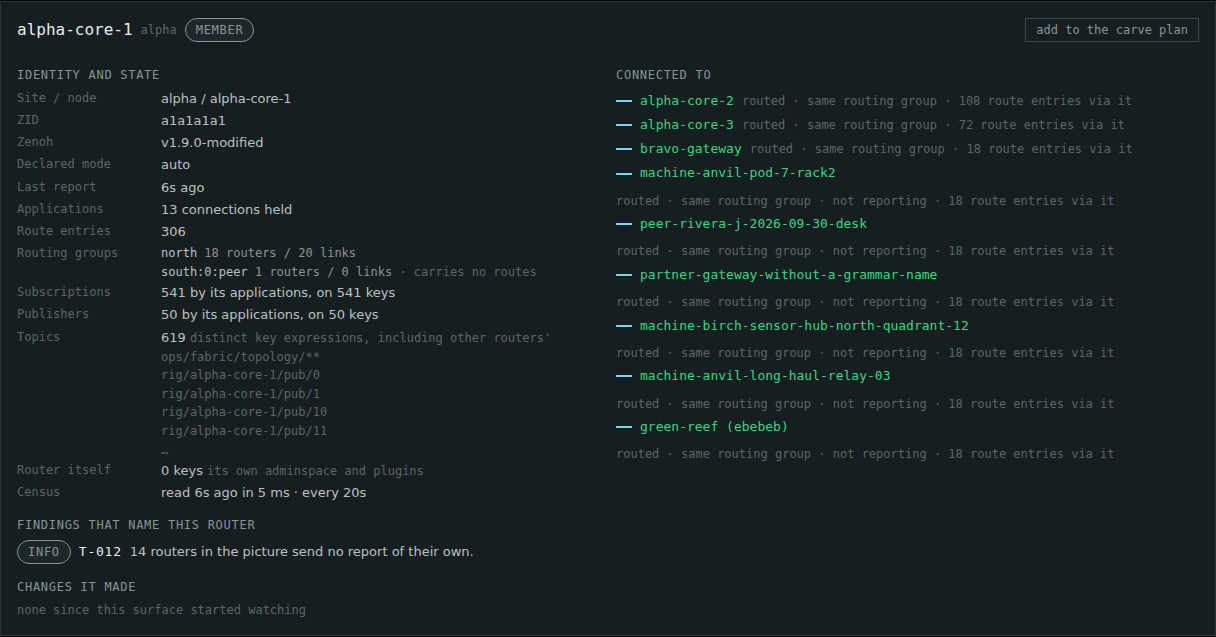
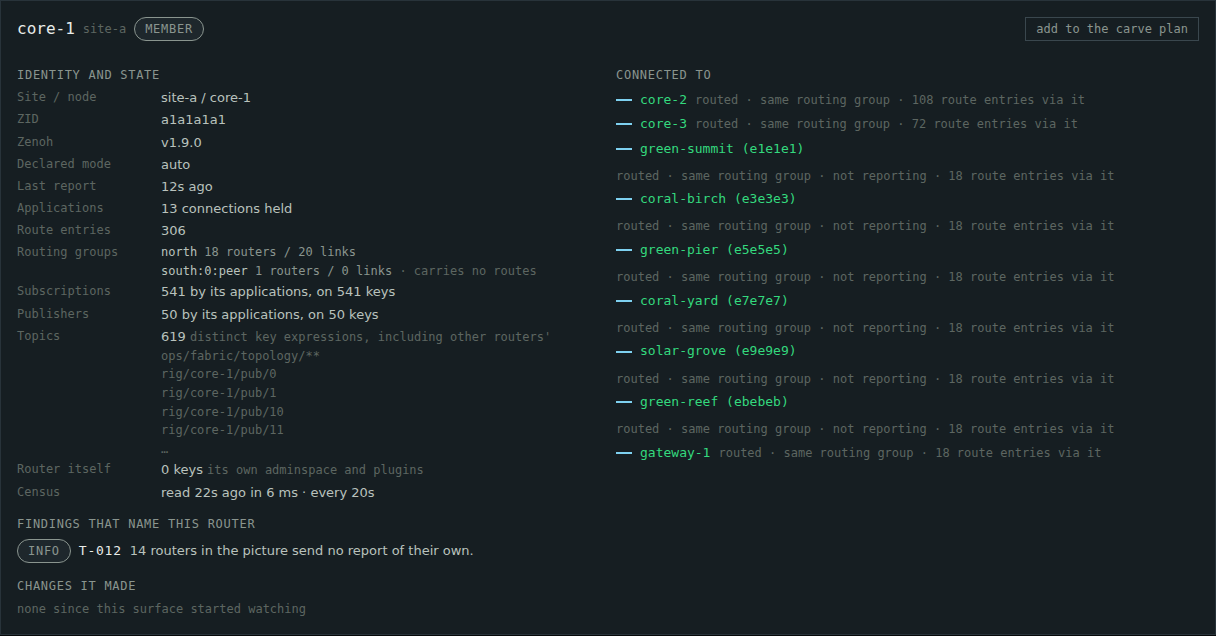
docs(topology): screenshots from a generic-name rig with no directory or roster
Every screenshot on the topology service page is now from a rig of 22 stock
eclipse/zenoh 1.9.0 routers named core-1..3, gateway-1/2, pod-1..4 and
edge-1..13 in sites site-a and site-b, run with no peer directory and no
roster. The graph, the reporting-router detail and finding T-013 are
replaced.

The pictures of a router's owner (the not-reporting detail) and of the
routers table, which shows an owner column, are removed until the page
hides owner fields when no directory is configured; the text says which
part of that is built and which is designed.

diff --git a/docs/design/zenoh-topology-service.md b/docs/design/zenoh-topology-service.md
@@ -2,7 +2,7 @@
 
 The topology service draws a Zenoh router fabric as a graph: every router, the routing group each link belongs to, which routers send no report of their own, who operates each router, and how many subscriptions, publishers and key expressions each one carries. Each router's own host reads that router and publishes what it finds; the page reads only those reports, so opening it sends no query to any router.
 
-**Status.** Built, in goatstuff `ops/goat-topology` (the graph, routers that send no report, names and owners, per-router counts, and the findings). Every image on this page is from a local test rig of 22 `zenohd` 1.9.0 routers with synthetic names, organizations, nations and ZIDs (measured 2026-11-16). The component's design document, which is canonical, is [`docs/design/zenoh-topology-surface.md`](https://github.com/usareur-af/goatstuff/blob/main/docs/design/zenoh-topology-surface.md) in goatstuff.
+**Status.** Built, in goatstuff `ops/goat-topology` (the graph, routers that send no report, names and owners, per-router counts, and the findings). Every image on this page is from a local test rig of 22 stock `eclipse/zenoh` 1.9.0 routers with generic names (`core-1`, `gateway-1`, `pod-1`, …) and synthetic ZIDs, run with no peer directory and no roster configured (measured 2026-11-16). The component's design document, which is canonical, is [`docs/design/zenoh-topology-surface.md`](https://github.com/usareur-af/goatstuff/blob/main/docs/design/zenoh-topology-surface.md) in goatstuff.
 
 <!-- Recording: the 90-second screen recording of the rig page (graph filling in, a router that sends no report, a router going quiet and T-006, the counts) goes on the line below once it is uploaded; see the pull request. -->
 
@@ -28,7 +28,7 @@ On the rig, with one router holding 541 subscriptions and 22 routers in its grou
 
 ### The routing graph
 
-![The topology graph of the rig: six reporting routers drawn as full circles with application counts, fourteen routers that send no report drawn as small dashed circles labeled with their mesh peer names and organizations, blue routed links and amber terminated links.](zenoh-topology-service/graph-dark.png)
+![The topology graph of the rig: six reporting routers (core-1 to core-3, gateway-1, pod-1, pod-2) drawn as full circles with application counts, fourteen routers that send no report drawn as small dashed circles labeled with names derived from their ZIDs, blue routed links and amber terminated links.](zenoh-topology-service/graph-dark.png)
 
 <details><summary>The same graph in the light theme</summary>
 
@@ -39,19 +39,11 @@ On the rig, with one router holding 541 subscriptions and 22 routers in its grou
 - **Reporting routers** are the full circles. The number inside is the count of sessions the router holds; the amber arc around it grows with that count and is full at 60.
 - **Routers that send no report** are the small dashed circles marked `?`. A router appears even when no publisher runs on its host, because the routers that do report list it in their link-state graphs. Its links are real. Its settings and load are unknown and are shown as blank, never as zero.
 - **Routed links** (blue) join two routers in the same routing group (`north`). **Terminated links** (amber) join a gateway to a router below it (`south:<id>:router`).
-- **Labels.** The first line is the router's name: its node name if it reports, otherwise the name of the mesh peer it connects from, otherwise a display name derived from its ZID (for example `coral-quarry (d2d2d2)`). A reporting router's second line is its site and role (`member` or `gateway`). The last line is the organization and that organization's nation, when the identity roster records them.
+- **Labels.** The first line is the router's name: its node name if it reports, otherwise the name of the mesh peer it connects from when a peer directory is configured, otherwise a display name derived from its ZID (for example `coral-quarry (d2d2d2)`). A reporting router's second line is its site and role (`member` or `gateway`). When a roster is configured, a last line gives the organization and that organization's nation.
 
 ### Who operates a router
 
-Selecting a router opens its detail.
-
-![The detail of a router that sends no report: its ZID, the display name derived from it, the mesh peer name, hostname and groups, the address it connects from, the organization and its nation, the individual, that person's nationality, how the owner was found, and the seven key expressions a reporting router attributes to it.](zenoh-topology-service/detail-not-reporting-dark.png)
-
-<details><summary>Light theme</summary>
-
-![The detail of a router that sends no report, light theme.](zenoh-topology-service/detail-not-reporting-light.png)
-
-</details>
+Selecting a router opens its detail. The owner fields described below come from two optional files on the surface's host, a peer directory and a roster. Built: without them, a router that sends no report keeps a name derived from its ZID. Designed, not built: with neither file configured, the page shows no owner column and no owner fields at all; today it still shows them empty.
 
 The surface finds the owner without asking the fabric or the mesh controller for anything:
 
@@ -65,13 +57,7 @@ A router stays unnamed in three cases, and its detail says which: no reporting r
 
 ### What each router carries
 
-![The routers table: for each router, its organization and nation, its mode, what it carries (subscriptions, publishers and topics for a reporting router; subscribed keys as a reporting router sees them for one that sends no report), its routing groups, its route entries and the age of its last report.](zenoh-topology-service/table-dark.png)
-
-<details><summary>Light theme</summary>
-
-![The routers table, light theme.](zenoh-topology-service/table-light.png)
-
-</details>
+The routers table lists every router with its mode, what it carries (subscriptions, publishers and topics for a reporting router; subscribed keys as a reporting router sees them for one that sends no report), its routing groups, its route entries and the age of its last report.
 
 The counts are declarations from each reporting router's own tables, not traffic. In the subscriber table, each entry is one key expression with the sources that declared it:
 
